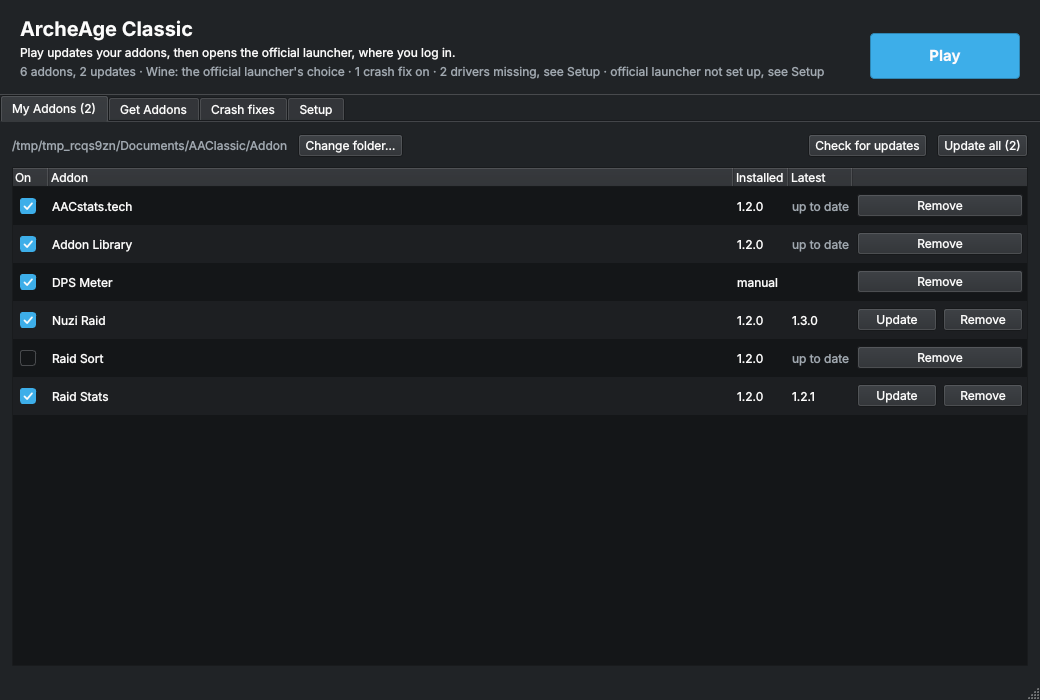
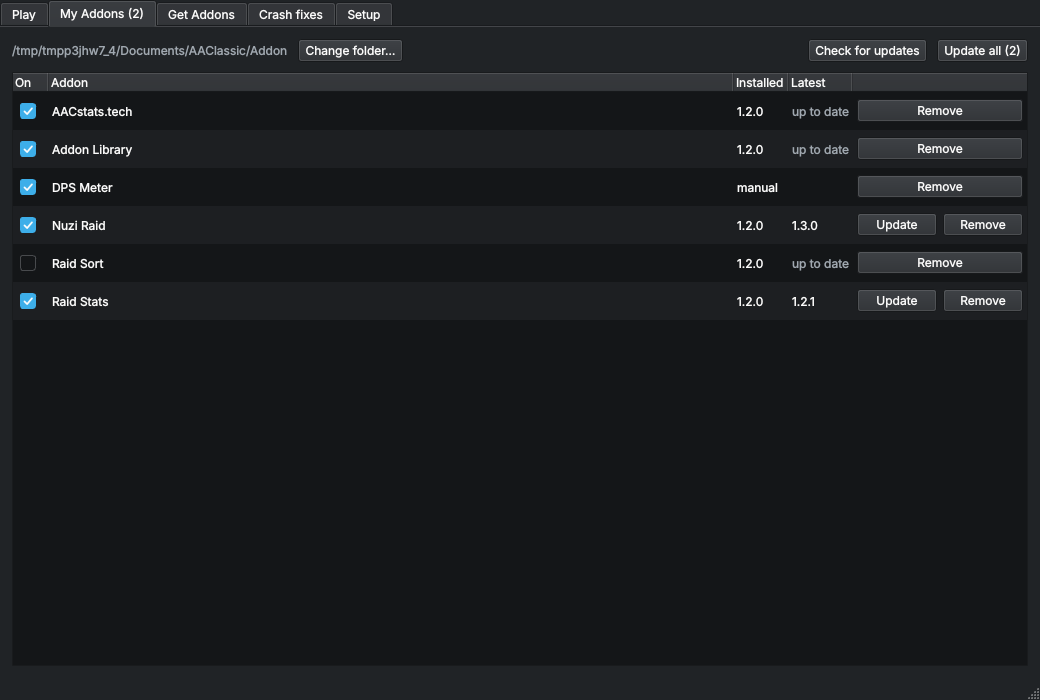
Play tab built around the player's own screenshots, v0.2.6
Jacob chose a launcher-style look with real art. The Play tab shows the
player's newest in-game screenshot (or one they pick) behind the game's name,
status and Play button. With none yet, it says how to take one.

Claude-Session: https://claude.ai/code/session_01RFEqjq7Q3wXvs7E8xZvrQc

Changed region(s): [[0.0, 0.0, 1.0, 0.6], [0.0, 0.51, 0.0923, 0.57], [0.7077, 0.51, 0.7385, 0.57]]

diff --git a/src/aacam/gui.py b/src/aacam/gui.py
@@ -482,7 +482,7 @@ class FixesDialog(QDialog):
 # --- main window --------------------------------------------------------------
 
 class MainWindow(QMainWindow):
-    ADDONS, BROWSE, FIXES, SETUP = range(4)
+    PLAY, ADDONS, BROWSE, FIXES, SETUP = range(5)
 
     def __init__(self) -> None:
         super().__init__()
@@ -507,9 +507,9 @@ class MainWindow(QMainWindow):
         lay = QVBoxLayout(central)
         lay.setContentsMargins(0, 0, 0, 0)
         lay.setSpacing(0)
-        lay.addWidget(self._build_header())
         self.tabs = QTabWidget()
         self.tabs.setDocumentMode(True)
+        self.tabs.addTab(self._build_play_tab(), "Play")
         self.tabs.addTab(self._build_installed_tab(), "My Addons")
         self.tabs.addTab(self._build_browse_tab(), "Get Addons")
         self.tabs.addTab(self._build_fixes_tab(), "Crash fixes")
@@ -528,38 +528,78 @@ class MainWindow(QMainWindow):
 
     # layout
 
-    def _build_header(self) -> QWidget:
-        self.header = theme.Header()
-        row = QHBoxLayout(self.header)
-        row.setContentsMargins(20, 16, 20, 16)
-        row.setSpacing(20)
+    def _build_play_tab(self) -> QWidget:
+        """Your own screenshot, full size, with the game's name, what it's doing and the Play button."""
+        self.showcase = theme.Showcase()
+        lay = QVBoxLayout(self.showcase)
+        lay.setContentsMargins(28, 18, 28, 26)
+        top = QHBoxLayout()
+        top.addStretch()
+        self.picture_btn = _button("Change picture…", self.choose_picture,
+                                   "Pick one of your screenshots. Hide the game's interface before you take one.")
+        self.picture_btn.setStyleSheet(
+            "QPushButton { background: rgba(0,0,0,110); color: white; border: 1px solid rgba(255,255,255,60);"
+            " border-radius: 4px; padding: 4px 12px; } QPushButton:hover { background: rgba(0,0,0,160); }")
+        top.addWidget(self.picture_btn)
+        lay.addLayout(top)
+        lay.addStretch(1)
+        self.no_picture = QWidget()
+        hint = QVBoxLayout(self.no_picture)
+        hint.setAlignment(Qt.AlignCenter)
+        msg = _label("Your own ArcheAge screenshots show here. Hide the game's interface, then press "
+                     "Print Screen; the game saves them in Documents/AAClassic/ScreenShots.", muted=True)
+        msg.setAlignment(Qt.AlignCenter)
+        msg.setFixedWidth(460)
+        msg.setMinimumHeight(msg.heightForWidth(460))
+        hint.addWidget(msg, 0, Qt.AlignCenter)
+        hint.addWidget(_button("Choose a picture…", self.choose_picture), 0, Qt.AlignCenter)
+        lay.addWidget(self.no_picture)
+        lay.addStretch(1)
+
+        row = QHBoxLayout()
+        row.setSpacing(24)
         words = QVBoxLayout()
         words.setSpacing(4)
-        words.addStretch()
         self.title = QLabel("ArcheAge Classic")
-        self.title.setFont(theme.title_font(self.font(), self.font().pointSizeF() * 1.7))
+        self.title.setFont(theme.title_font(self.font(), self.font().pointSizeF() * 2.2))
         words.addWidget(self.title)
         self.state = QLabel()
-        self.state.setTextFormat(Qt.RichText)
+        self.state.setWordWrap(True)
         words.addWidget(self.state)
         self.facts = QLabel()
-        self.facts.setTextFormat(Qt.RichText)
         self.facts.setWordWrap(True)
         words.addWidget(self.facts)
         row.addLayout(words, 1)
         self.play_btn = _button("Play", self.play, "Update addons, then start the game through the official launcher")
-        self.play_btn.setFont(theme.title_font(self.font(), self.font().pointSizeF() * 1.25))
-        self.play_btn.setMinimumSize(150, 46)
+        self.play_btn.setFont(theme.title_font(self.font(), self.font().pointSizeF() * 1.4))
+        self.play_btn.setMinimumSize(180, 54)
         accent, text = theme.colour("selection"), theme.colour("selection_text")
         self.play_btn.setStyleSheet(
             f"QPushButton {{ background: {accent.name()}; color: {text.name()}; border: 1px solid {accent.darker(130).name()};"
-            f" border-radius: 4px; padding: 0 28px; }}"
+            f" border-radius: 4px; padding: 0 32px; }}"
             f" QPushButton:hover {{ background: {accent.lighter(110).name()}; }}"
             f" QPushButton:pressed {{ background: {accent.darker(115).name()}; }}"
             f" QPushButton:disabled {{ background: {theme.mix(accent, theme.colour('window'), 0.6).name()};"
             f" color: {theme.mix(text, theme.colour('window'), 0.4).name()}; }}")
         row.addWidget(self.play_btn, 0, Qt.AlignBottom)
-        return self.header
+        lay.addLayout(row)
+        return self.showcase
+
+    def picture(self) -> Path | None:
+        """The screenshot the player chose, else their newest one."""
+        chosen = self.settings.get("picture")
+        if chosen and Path(chosen).is_file():
+            return Path(chosen)
+        return theme.latest_screenshot(self.mgr.install.root if self.mgr else None)
+
+    def choose_picture(self) -> None:
+        current = self.picture()
+        start = current.parent if current else (self.mgr.install.root if self.mgr else Path.home())
+        chosen, _ = QFileDialog.getOpenFileName(self, "Choose a picture", str(start),
+                                                "Pictures (*.jpg *.jpeg *.png *.bmp)")
+        if chosen:
+            self.settings.set("picture", chosen)
+            self.refresh_header()
 
     def _build_installed_tab(self) -> QWidget:
         w, lay = _tab()
@@ -742,7 +782,7 @@ class MainWindow(QMainWindow):
         self.pool.start(job)
 
     def check_system(self) -> None:
-        """Run the driver checks off the UI thread for the header."""
+        """Run the driver checks off the UI thread for the Play tab."""
         def show(checks: list[syscheck.Check]) -> None:
             self.checks = checks
             self.refresh_header()
@@ -754,14 +794,15 @@ class MainWindow(QMainWindow):
         self.pool.start(job)
 
     def refresh_header(self) -> None:
-        """The header: the player's latest screenshot, what the game is doing, and one line of facts."""
-        self.header.set_picture(theme.latest_screenshot(self.mgr.install.root if self.mgr else None))
-        on_picture = self.header.on_picture
-        self.header.setMinimumHeight(190 if on_picture else 0)
+        """The Play tab: the player's screenshot, what the game is doing, and one line of facts."""
+        self.showcase.set_picture(self.picture())
+        on_picture = self.showcase.on_picture
+        self.no_picture.setVisible(not on_picture)
+        self.picture_btn.setVisible(on_picture)
         light = "color: white;" if on_picture else ""
         self.title.setStyleSheet(light)
         self.state.setStyleSheet(light)
-        self.facts.setStyleSheet("color: rgba(255,255,255,190);" if on_picture else "")
+        self.facts.setStyleSheet("color: rgba(255,255,255,200);" if on_picture else "")
         if not on_picture:
             _muted(self.facts)
 
@@ -962,7 +1003,7 @@ class MainWindow(QMainWindow):
         self.statusBar().showMessage("Report copied. Paste it where you ask for help.", 6000)
 
     def _game(self, state: str | None, detail: str = "", button: str | None = None) -> None:
-        """Show what the game is doing in the header; a button text disables Play while it lasts."""
+        """Show what the game is doing on the Play tab; a button text disables Play while it lasts."""
         self.game_state = (state, detail) if state else None
         self.play_btn.setText(button or "Play")
         self.play_btn.setEnabled(button is None)

diff --git a/src/aacam/theme.py b/src/aacam/theme.py
@@ -1,4 +1,4 @@
-"""The desktop app's look: the desktop's own colours, and the player's own screenshot as the header.
+"""The desktop app's look: the desktop's own colours, and the player's own screenshot on the Play tab.
 
 The AppImage ships its own Qt, which can't load KDE's or GNOME's style plugins, so we read the
 desktop's colour scheme ourselves (KDE's kdeglobals, GNOME's dark-style setting) and apply it to
@@ -207,14 +207,18 @@ def latest_screenshot(root: Path | None) -> Path | None:
     return best[1] if best else None
 
 
-class Header(QWidget):
-    """The top of the window: the player's own latest screenshot when there is one, else nothing."""
+class Showcase(QWidget):
+    """The Play tab's background: the player's own screenshot, shaded at the bottom for the text."""
 
     def __init__(self) -> None:
         super().__init__()
         self.picture: QPixmap | None = None
+        self.path: Path | None = None
 
     def set_picture(self, path: Path | None) -> None:
+        if path == self.path:
+            return
+        self.path = path
         pix = QPixmap(str(path)) if path else QPixmap()
         self.picture = None if pix.isNull() else pix
         self.update()
@@ -227,19 +231,17 @@ class Header(QWidget):
         p = QPainter(self)
         w, h = self.width(), self.height()
         if self.picture is None:
-            p.fillRect(self.rect(), self.palette().window())
-            p.setPen(self.palette().mid().color())
-            p.drawLine(0, h - 1, w, h - 1)
+            p.fillRect(self.rect(), self.palette().base())
             return
         p.setRenderHint(QPainter.SmoothPixmapTransform)
         pw, ph = self.picture.width(), self.picture.height()
         scale = max(w / pw, h / ph)
         sw, sh = w / scale, h / scale
-        p.drawPixmap(QRectF(0, 0, w, h), self.picture, QRectF((pw - sw) / 2, (ph - sh) * 0.4, sw, sh))
-        shade = QLinearGradient(0, 0, 0, h)
-        shade.setColorAt(0, QColor(0, 0, 0, 40))
-        shade.setColorAt(1, QColor(0, 0, 0, 170))
-        p.fillRect(self.rect(), shade)
+        p.drawPixmap(QRectF(0, 0, w, h), self.picture, QRectF((pw - sw) / 2, (ph - sh) / 2, sw, sh))
+        shade = QLinearGradient(0, h * 0.45, 0, h)
+        shade.setColorAt(0, QColor(0, 0, 0, 0))
+        shade.setColorAt(1, QColor(0, 0, 0, 200))
+        p.fillRect(QRectF(0, h * 0.45, w, h * 0.55), shade)
 
 
 def title_font(base: QFont, points: float, bold: bool = True) -> QFont:

diff --git a/src/aacam/__init__.py b/src/aacam/__init__.py
@@ -1,3 +1,3 @@
 """ArcheAge Classic Linux Launcher: gets the game running on Linux and manages addons."""
 
-__version__ = "0.2.5"
+__version__ = "0.2.6"

diff --git a/README.md b/README.md
@@ -21,7 +21,7 @@ The first time it opens, **Setup** walks you through three things:
 2. **The official launcher**: found where it usually lives, or downloaded from aa-classic.com.
 3. **Your addon folder**: found automatically once the game has run, or chosen by you.
 
-The window uses your desktop's colours (KDE's colour scheme, or GNOME's light or dark style). Its header shows your latest in-game screenshot, if you've taken one, with the Play button, and tabs for My Addons, Get Addons, Crash fixes and Setup sit below it.
+The window opens on **Play**, which shows one of your own in-game screenshots (the newest, or one you pick with Change picture…) behind the Play button; for the best picture, hide the game's interface before you press Print Screen. Tabs hold My Addons, Get Addons, Crash fixes and Setup, and the window uses your desktop's colours (KDE's colour scheme, or GNOME's light or dark style).
 
 - **Play** updates your addons, then starts the official launcher, where you log in and press Play. While the game runs the app keeps an eye on its memory use, and shows a desktop notification when the 32-bit game gets close to its 4 GB limit, before it crashes. When it closes, the app checks the logs and the kernel for signs of a crash (out of memory, unhandled exceptions, GPU errors, a very short session). If it finds one, it explains it, saves the logs to a crash report zip, and suggests the fix that matches.
 - **Wine build**: the official launcher runs the game with Wine or Proton. Under Proton the game's anti-cheat closes it right after server select, so when the official launcher's Wine-Staging prefix exists, Play points it at a Wine-Staging build from Heroic or Lutris (`AAC_WINE`, `AAC_WINEPREFIX`). You can pick another build or let the official launcher choose. A WoW64 build would leave the game more of its 4 GB. Until the ArcheAge Classic team confirms it is allowed it is off by default, but you can test it on your own PC at your own risk (`aacam wine --test-wow64`, or the checkbox in Crash fixes). That downloads it, copies your Wine prefix so the original stays untouched, and `aacam wine --stop-wow64` goes back.

diff --git a/ROADMAP.md b/ROADMAP.md
@@ -78,6 +78,8 @@ In v0.2.4: HTTPS works from the AppImage on Arch (it couldn't find Arch's CA cer
 
 In v0.2.5: a new look. The window opens on a Play screen with painted art, a big Play button and status tiles, and has a sidebar for My Addons, Get Addons, Crash fixes and Setup, in a dark and gold theme that looks the same on KDE and GNOME.
 
+In v0.2.6: v0.2.5's look read as generic (Jacob, 2026-10-30), so it was replaced. The window now uses the desktop's own colours, and the Play tab shows the player's own in-game screenshot instead of drawn art.
+
 Next:
 
 - Switch on the DXVK memory setting and WoW64 Wine once the ArcheAge Classic team OKs them, and repair the game's prefix.
